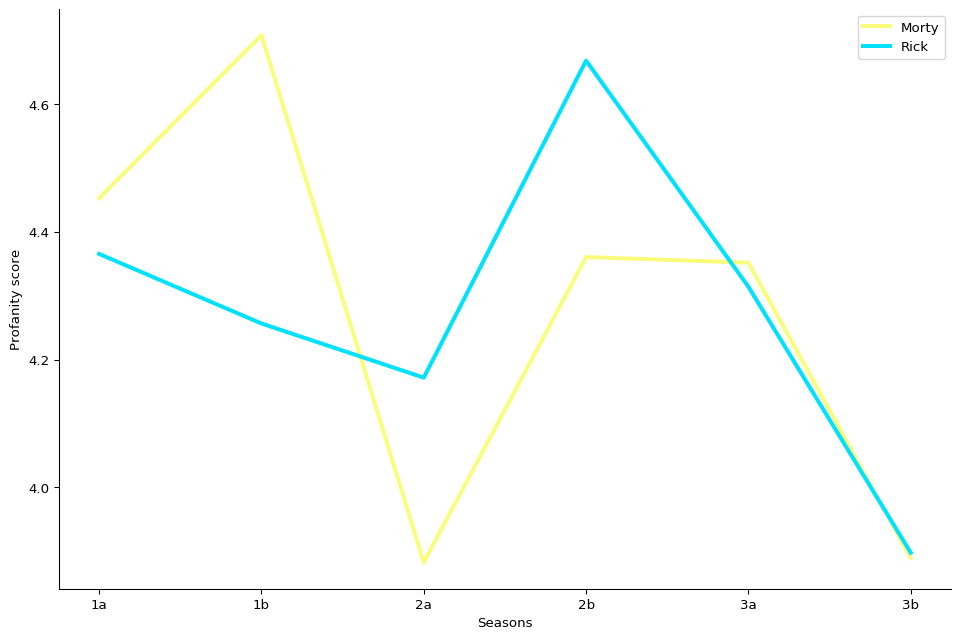
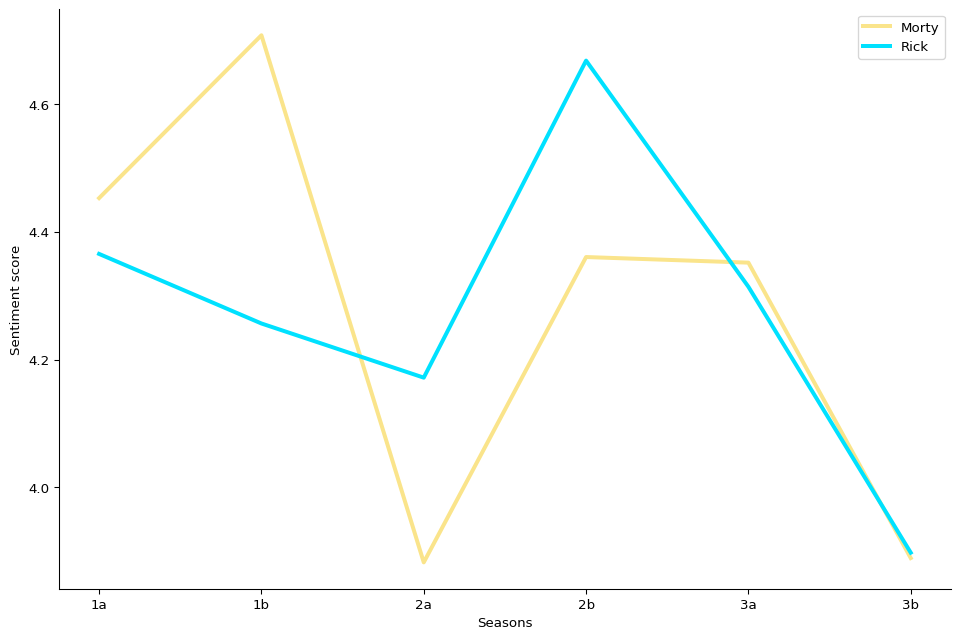
changes morty's color to be more visible

diff --git a/characters.html b/characters.html
@@ -148,7 +148,7 @@
                                         <figcaption class="caption">The Full Network</figcaption>
                                     </figure>
                                     <div class="row">
-                                        <p> Above you can see the complete character network, we highlighted the Ricks in <b style="color: #00e1ff"> blue </b> and the Mortys in <b style="color: yellow"> yellow </b>. We also printed the node size depending on their degree which is why Rick & Morty have such big nodes. Let's dive a little bit deeper into the degree analysis of our network. </p>
+                                        <p> Above you can see the complete character network, we highlighted the Ricks in <b style="color: #00e1ff"> blue </b> and the Mortys in <b style="color: #fae48b"> yellow </b>. We also printed the node size depending on their degree which is why Rick & Morty have such big nodes. Let's dive a little bit deeper into the degree analysis of our network. </p>
                                     </div>
 
                                 </div>
